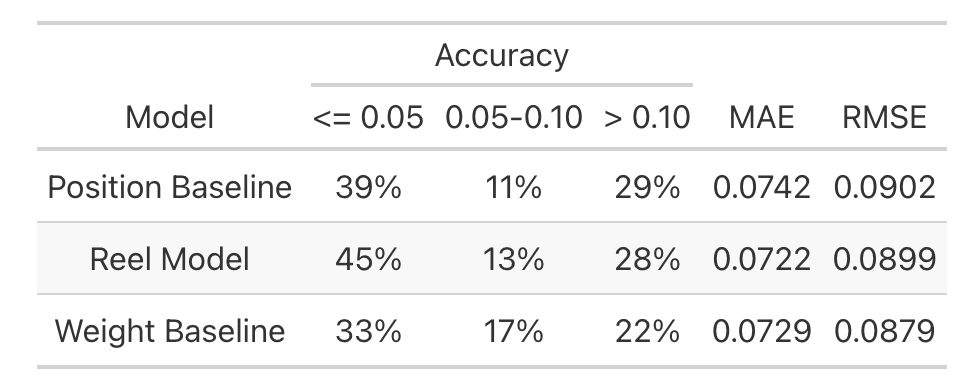
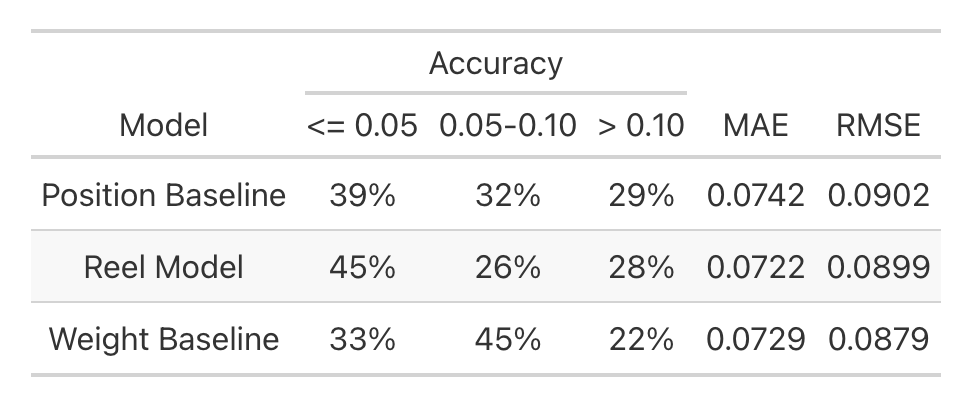
fix table

diff --git a/_posts/2025-03-02-reel-analytics.md b/_posts/2025-03-02-reel-analytics.md
@@ -322,7 +322,7 @@ preds_long <- full_pred_df %>%
 pred_performance_table <- preds_long %>%
   group_by(model_type) %>%
   summarise(hi_accuracy = sum(abs(residual) <= 0.05) / n(), 
-            md_accuracy = sum(abs(residual) <= 0.10 & abs(residual >= 0.05)) / n(),
+            md_accuracy = sum(abs(residual) <= 0.10 & abs(residual) >= 0.05) / n(),
             lo_accuracy = sum(abs(residual) > 0.10) / n(), 
             mae = mean(abs(residual)),
             rmse = sqrt(mean(residual ^ 2))) %>%
@@ -395,6 +395,8 @@ these data, don’t pay for them. If the school recruiting you *does* want
 to see these data, commit to a different school.
 
 If you’re a sports tech investor looking to invest, don’t.
+
+*Note: A previous version of this table contained incorrect values in the "Medium" accuracy range of the model evaluation table. This error has now been fixed, and the table values displayed are correct.
 
 [^1]: Source: I work in baseball.
 
